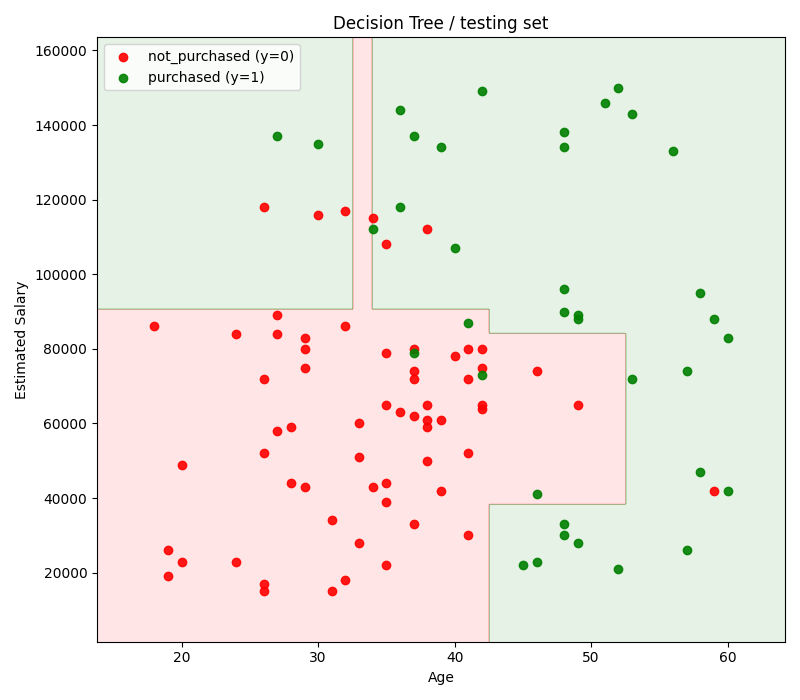
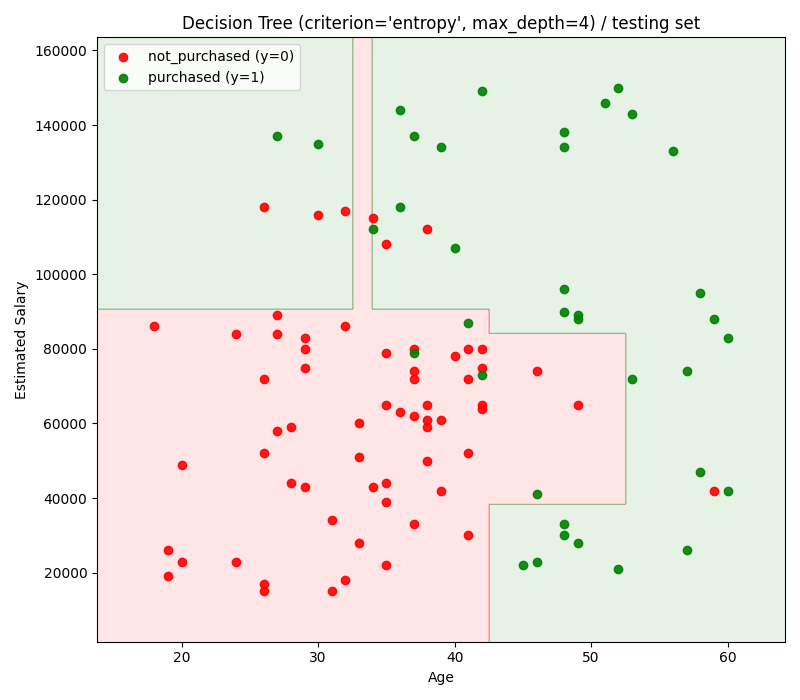
Update

Changed region(s): [[0.2188, 0.0, 0.875, 0.06]]

diff --git a/machlearn/decision_tree/_decision_tree.py b/machlearn/decision_tree/_decision_tree.py
@@ -149,12 +149,14 @@ def _demo(dataset="Social_Network_Ads", classifier_func="decision_tree", plottin
             f"Using a grid search and a {model_name} classifier, the best hyperparameters were found as following:\n"
             f"Step1: scaler: StandardScaler(with_mean={repr(classifier_grid.best_params_['scaler__with_mean'])}, with_std={repr(classifier_grid.best_params_['scaler__with_std'])});\n"
             f"Step2: classifier: {classifier_func}(criterion={repr(criterion)}, max_depth={repr(max_depth)}).\n")
+        model_desc = f"{model_name} (criterion={repr(criterion)}, max_depth={repr(max_depth)})"
 
     if classifier_func in ["AdaBoost", "bagging"]:
         print(
             f"Using a grid search and a {model_name} classifier, the best hyperparameters were found as following:\n"
             f"Step1: scaler: StandardScaler(with_mean={repr(classifier_grid.best_params_['scaler__with_mean'])}, with_std={repr(classifier_grid.best_params_['scaler__with_std'])});\n"
             f"Step2: classifier: {classifier_func}().\n")
+        model_desc = f"{model_name}"
 
     ########################################################################################################################
 
@@ -168,12 +170,10 @@ def _demo(dataset="Social_Network_Ads", classifier_func="decision_tree", plottin
     if dataset == 'Social_Network_Ads':
         plot_ROC_and_PR_curves(fitted_model=classifier_grid, X=X_test,
                             y_true=y_test, y_pred_score=y_pred_score[:, 1], y_pos_label=1, model_name=f"{model_name}")
-    
-    if dataset == 'Social_Network_Ads':
         visualize_classifier_decision_boundary_with_two_features(
-            classifier_grid, X_train, y_train, y_classes, title=f"{model_name} / training set", X1_lab='Age', X2_lab='Estimated Salary')
+            classifier_grid, X_train, y_train, y_classes, title=f"{model_desc} / training set", X1_lab='Age', X2_lab='Estimated Salary')
         visualize_classifier_decision_boundary_with_two_features(
-            classifier_grid, X_test,  y_test,  y_classes, title=f"{model_name} / testing set",  X1_lab='Age', X2_lab='Estimated Salary')
+            classifier_grid, X_test,  y_test,  y_classes, title=f"{model_desc} / testing set",  X1_lab='Age', X2_lab='Estimated Salary')
 
     # Plotting the tree
     if classifier_func in ["decision_tree", "DT"] and plotting_tree is True:
